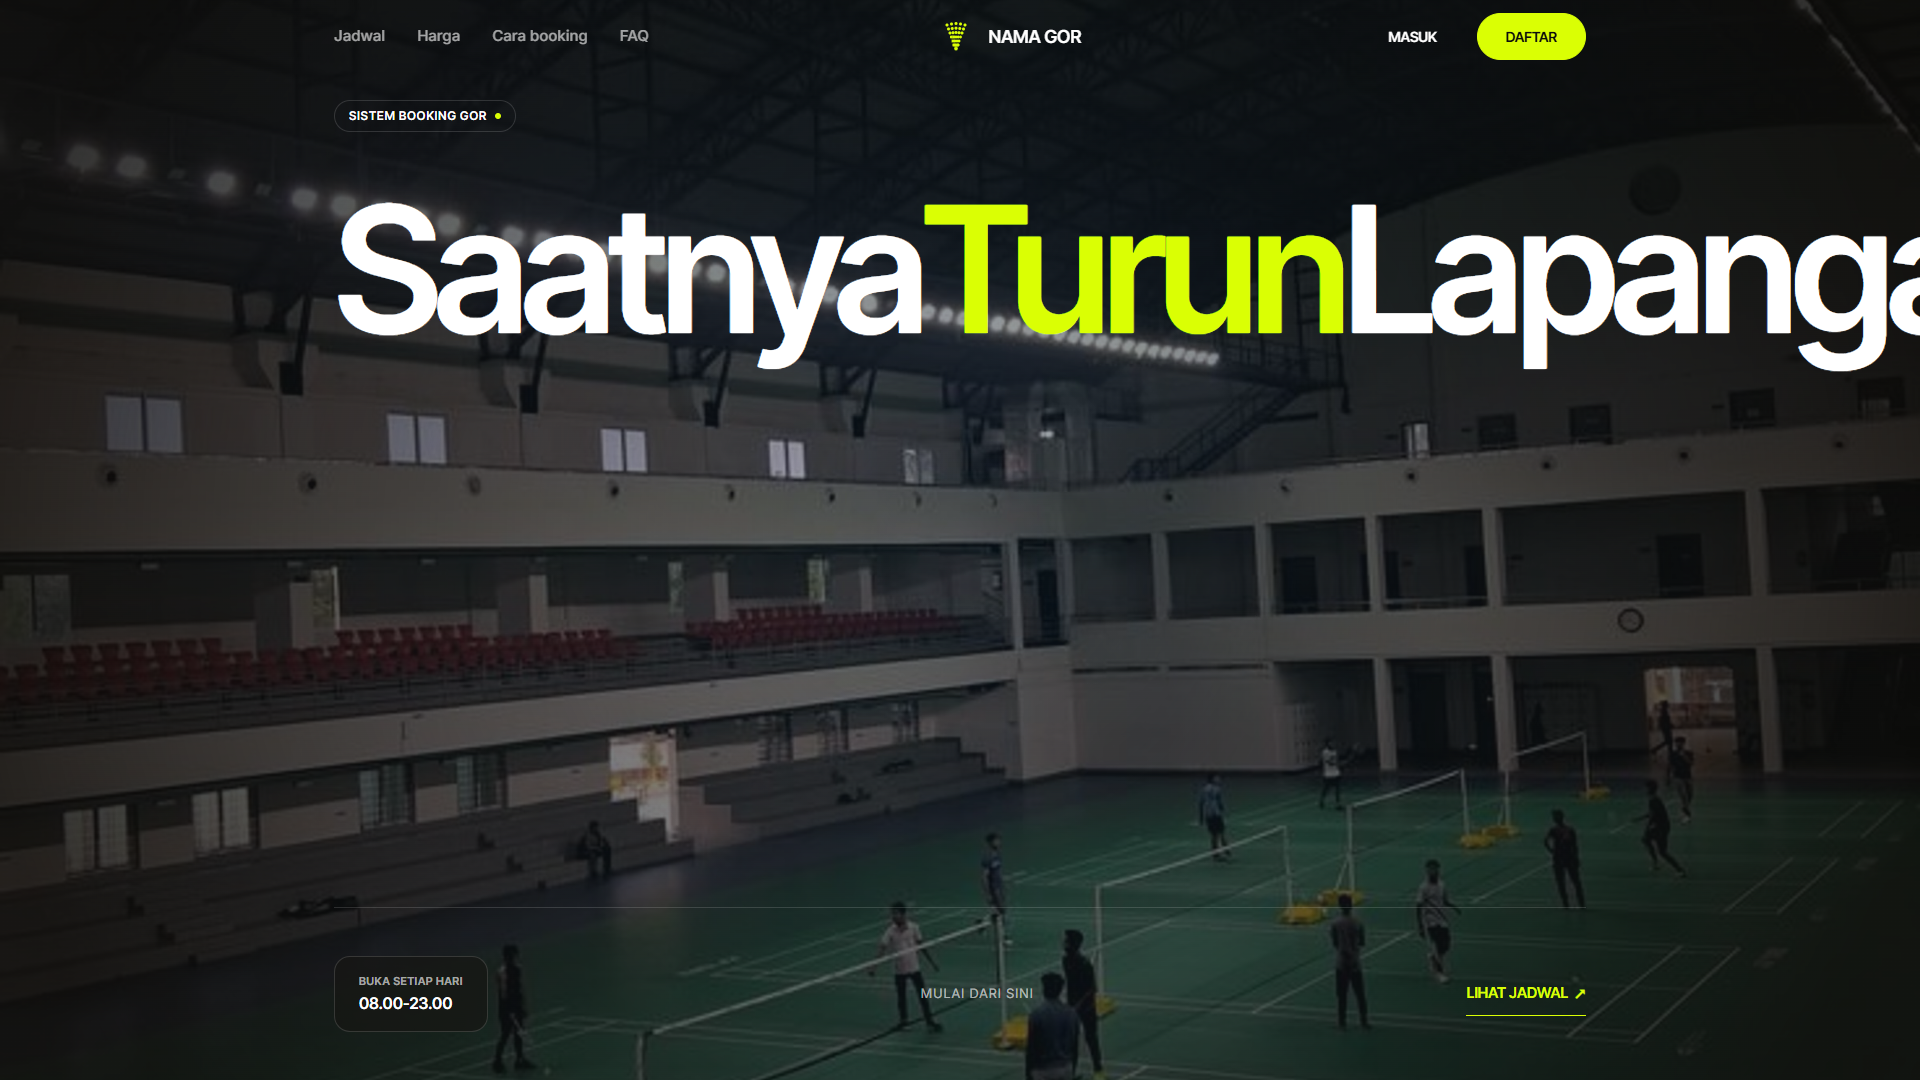
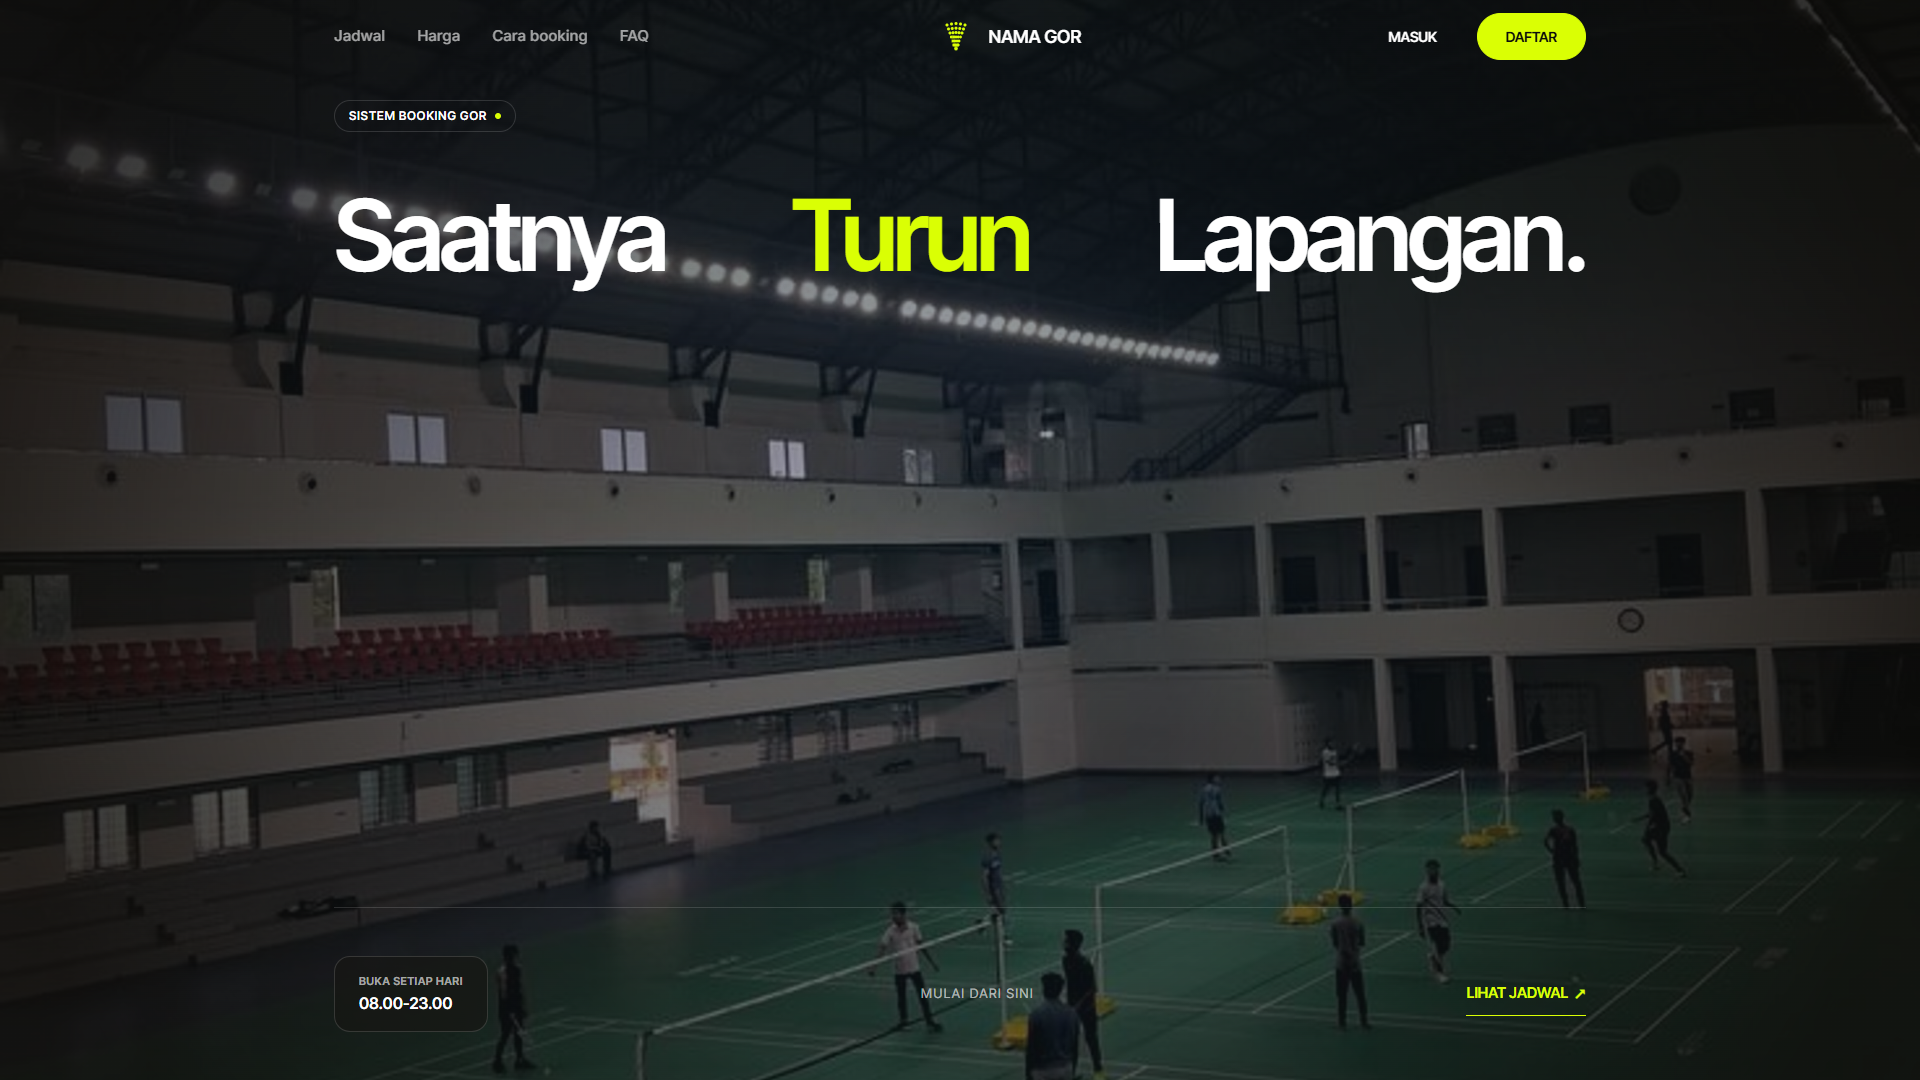
fix: sesuaikan font-size hero agar tidak overflow dan re-build aset Vite

Changed region(s): [[0.1562, 0.1833, 1.0, 0.3667]]

diff --git a/resources/css/components.css b/resources/css/components.css
@@ -668,16 +668,16 @@ details[open] .faq-icon {
 
 .hero-judul {
     font-family: var(--font-judul);
-    font-size: clamp(3.2rem, 11vw, 11rem);
+    font-size: clamp(2rem, 7vw, 6.2rem);
     font-weight: 600;
-    line-height: 0.92;
+    line-height: 0.95;
     letter-spacing: var(--tracking-judul);
     display: flex;
     justify-content: space-between;
     align-items: baseline;
     width: 100%;
     margin-top: var(--spasi-4);
-    margin-bottom: var(--spasi-2);
+    margin-bottom: var(--spasi-4);
 }
 
 .hero-grid-sub {
